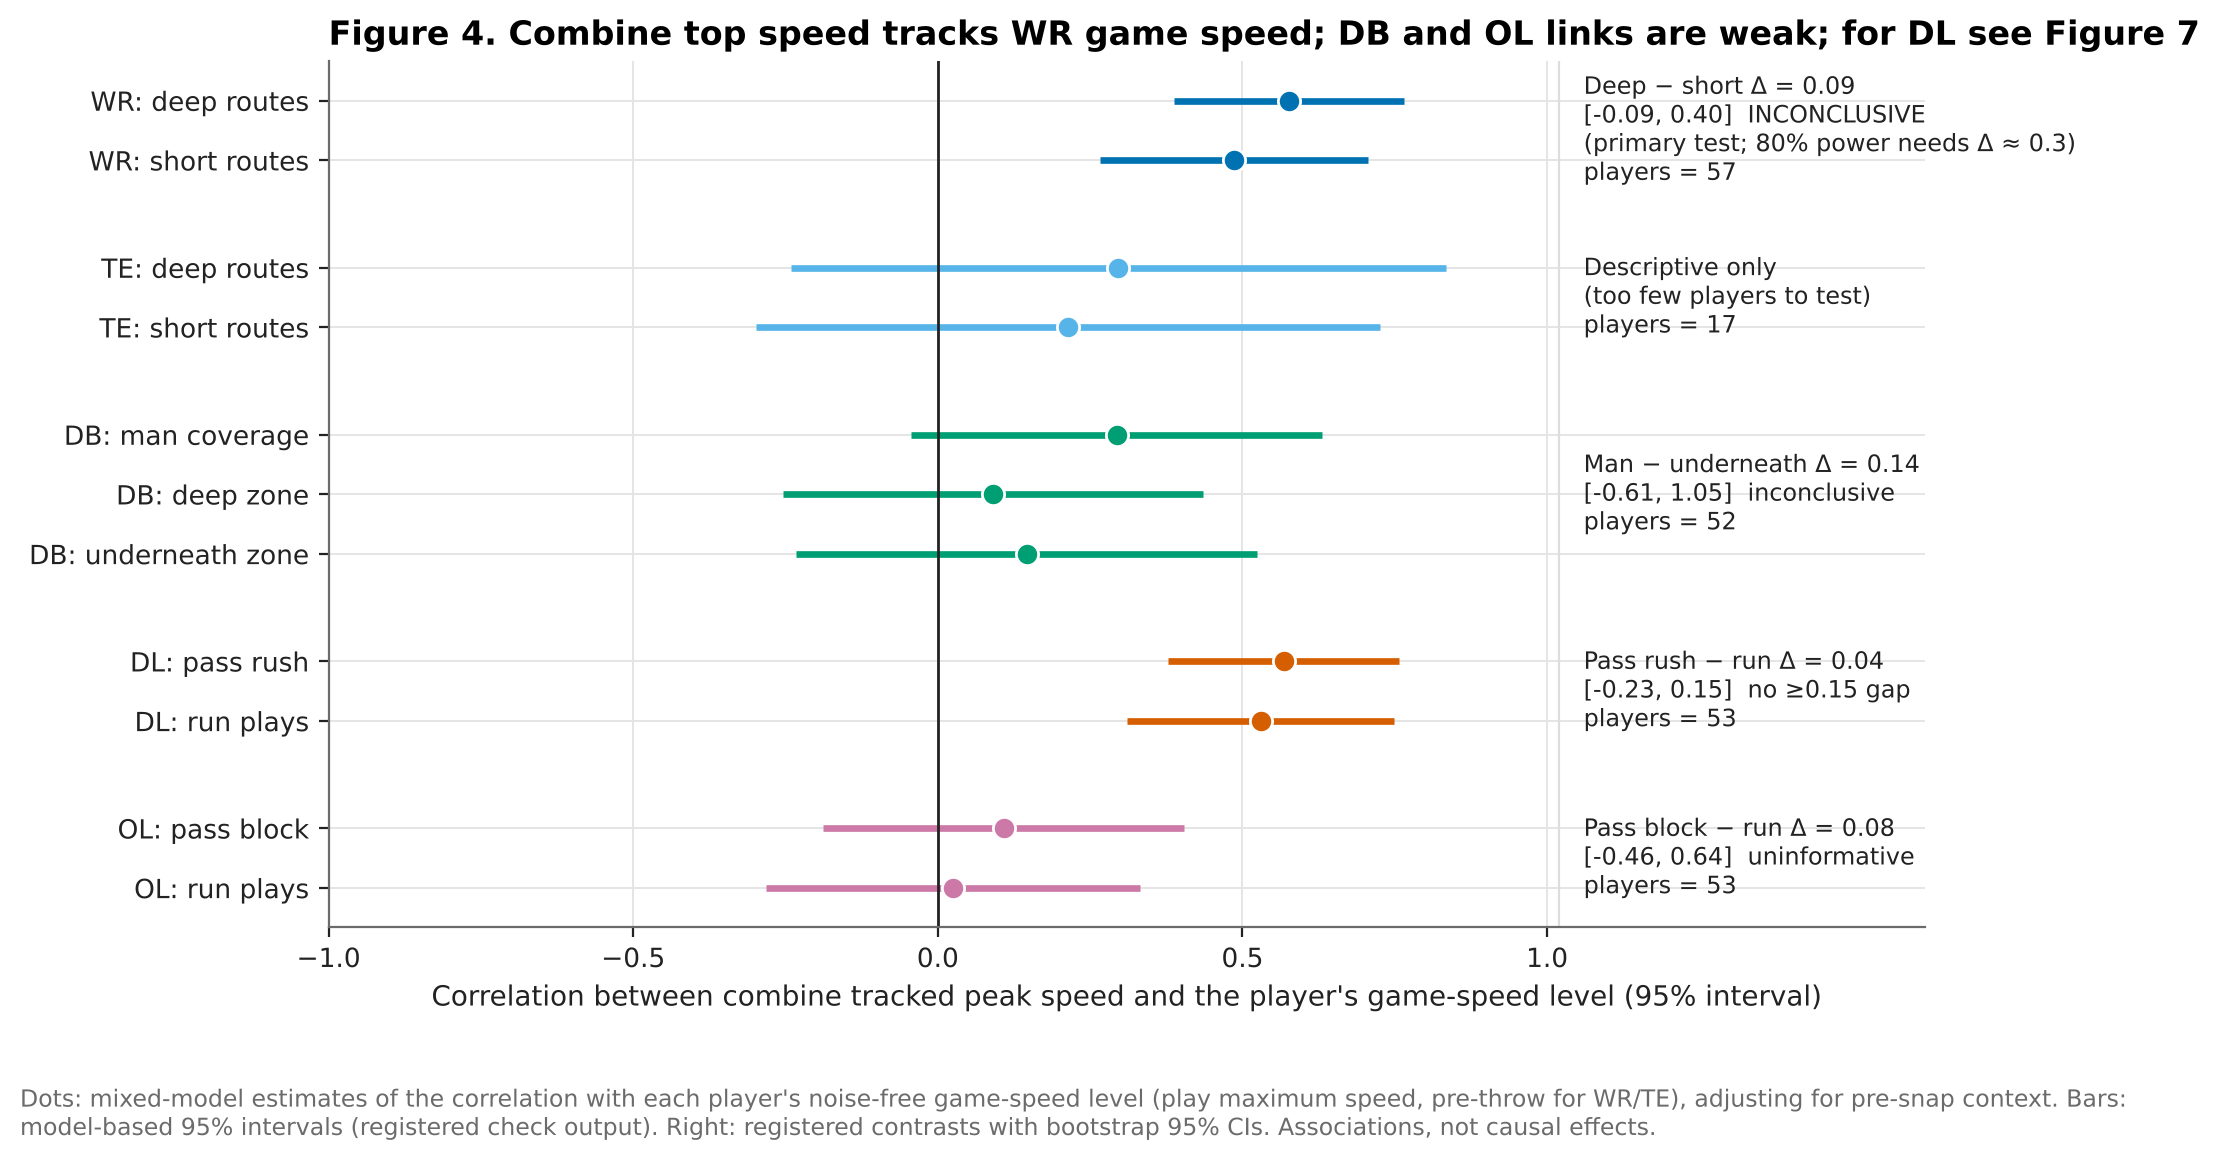
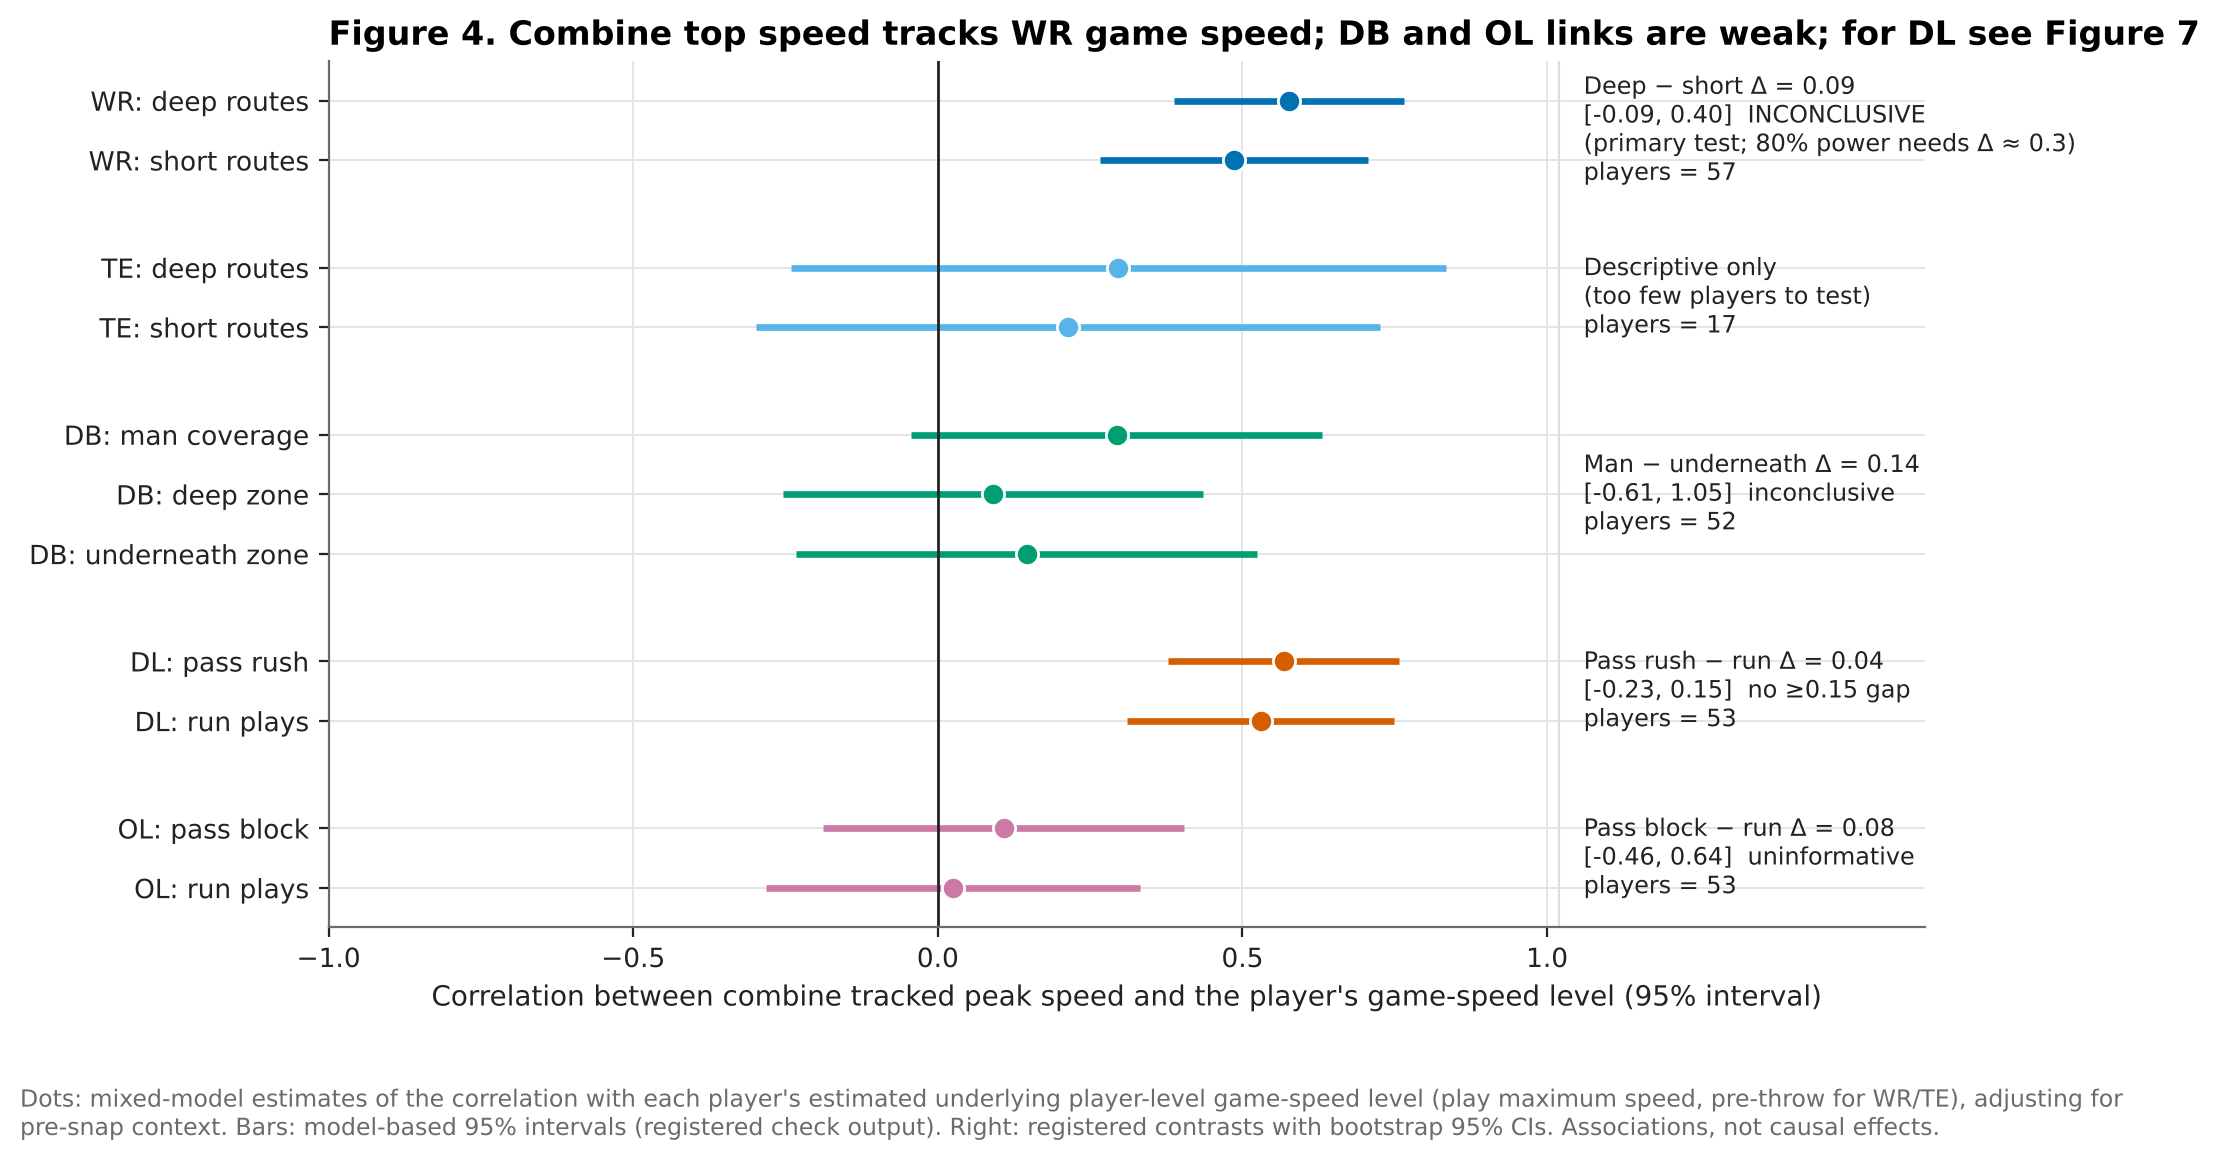
Presentation: replace 'noise-free game-speed level' with 'estimated underlying player-level game-speed level'
Writeup, Kaggle body, Figure 4 caption and notebook 11 narrative; checker now forbids
the old wording in the writeup and figure source. No result or registered file changed.

Claude-Session: https://claude.ai/code/session_0196YY3UW1RMqYoLE2roS9Mg

Changed region(s): [[0.0, 0.9286, 0.9639, 0.9905]]

diff --git a/scripts/check_writeup_numbers.py b/scripts/check_writeup_numbers.py
@@ -108,7 +108,7 @@ checks += [("Title", "# What Combine Tracking Can and Cannot Tell Us About NFL G
 FORBIDDEN = ["not the same thing as the 40", "distinct athletic capacity", "equally predictive", "tracking does not add information",
              "significantly", "Phase 19", "commit", "novel algorithm", "rule out a large", "rules out a gain", "negligible",
              "We make no novelty claim", "full texts not read", "alongside the 40", "H5(b)", "H1-DL(b)", " REG ", "(REG)", "Wald",
-             "ICC(3,1)", "Spearman–Brown", "less spread in short", "negative control"]
+             "ICC(3,1)", "Spearman–Brown", "less spread in short", "negative control", "noise-free"]
 H1SRC = (ROOT / "research_notes/h1_wr_confirmatory_results.md").read_text()
 src_fails += [n for n, t in [("slopes source", "**0.110 yd/s** higher on deep routes and **0.113 yd/s** higher on short routes"),
                              ("Sigma_b source (deep < short)", "[[0.0353, 0.0301], [0.0301, 0.0600]]")] if t not in H1SRC]
@@ -124,7 +124,8 @@ R14 = (ROOT / "research_notes/h1_wr_robustness_results.md").read_text()
 src_fails += [n for n, t in [("R14 source", "| eligible (≥ 100 routes) | 57 | 4.465 ± 0.090 s | 11.12 yd/s | 3.8 | 12 % |"),
                              ("R14 source inel", "| ineligible | 37 | 4.485 ± 0.088 s | 11.10 yd/s | 5.4 | 46 % |")] if t not in R14]
 forb_fails = [f for f in FORBIDDEN if f.lower() in W.lower()]
-fig_checks = [("Fig 3 title in figure", "Figure 3. " + H3), ("Fig 7 title in figure", F7), ("Fig 5 descriptive label", "Short routes\\n(descriptive comparison)"), ("Fig 2 panel B labels shown", "a2.set_yticklabels"), ("Fig 6 short CI in caption", "short-route adjusted reliability")]
+forb_fails += [f"figure source: {f}" for f in ["noise-free game-speed level"] if f in FIGSRC]
+fig_checks = [("Fig 3 title in figure", "Figure 3. " + H3), ("Fig 7 title in figure", F7), ("Fig 4 caption wording", "each player's estimated underlying player-level game-speed level"), ("Fig 5 descriptive label", "Short routes\\n(descriptive comparison)"), ("Fig 2 panel B labels shown", "a2.set_yticklabels"), ("Fig 6 short CI in caption", "short-route adjusted reliability")]
 fails = [(n, e) for n, e in checks if e not in W] + [(n, e) for n, e in fig_checks if e not in FIGSRC] + \
         [(n, "source text missing") for n in src_fails] + [("forbidden phrase", f) for f in forb_fails]
 checks += fig_checks

diff --git a/src/nfl_bdb/visualization/submission_figures.py b/src/nfl_bdb/visualization/submission_figures.py
@@ -174,7 +174,7 @@ def fig4_translation(R: dict):
         ax.text(1.06, sum(yy) / len(yy), txt[p] + f"\nplayers = {npl[p]}", va="center", fontsize=8.6, color=DARK)
     ax.axvline(1.02, color="#dddddd", lw=0.8)
     ax.set_title("Figure 4. Combine top speed tracks WR game speed; DB and OL links are weak; for DL see Figure 7")
-    _note(fig, "Dots: mixed-model estimates of the correlation with each player's noise-free game-speed level (play maximum speed, "
+    _note(fig, "Dots: mixed-model estimates of the correlation with each player's estimated underlying player-level game-speed level (play maximum speed, "
                "pre-throw for WR/TE), adjusting for pre-snap context. Bars: model-based 95% intervals (registered check output). "
                "Right: registered contrasts with bootstrap 95% CIs. Associations, not causal effects.", y=-0.03)
     fig.tight_layout(rect=(0, 0.06, 1, 1))

diff --git a/scripts/build_notebook_11.py b/scripts/build_notebook_11.py
@@ -281,7 +281,7 @@ where:
 - $b_{ic}$ is a correlated player effect;
 - $u$ is a team-season effect.
 
-The estimand is the correlation between Combine speed and the player's **noise-free** game-speed level,
+The estimand is the correlation between Combine speed and the player's **estimated underlying player-level** game-speed level,
 
 $$\rho_c = \frac{\beta_c}{\sqrt{\beta_c^2 + \Sigma_{b,cc}}}, \qquad \Delta = \rho_h - \rho_l .$$
 

diff --git a/paper/final_writeup.md b/paper/final_writeup.md
@@ -26,7 +26,7 @@ We keep four things separate (Figure 1): **capacity** (tracked 40 peak speed, yd
 | TE (descriptive only) | 17 | 4,170 |
 
 - **Safeguards.** The plan was pre-registered and the code frozen before the single Combine-to-game join; the pipeline was first tested on simulated data.
-- **Model.** A mixed model estimates each player's *noise-free* game-speed level in each context, adjusting for route, coverage, down, distance, formation, time to throw, season, NFL year and team-season. We report its correlation with Combine peak speed, ρ (from −1 to 1; 0 means no linear relationship), with intervals from resampling players 2,000 times.
+- **Model.** A mixed model estimates each player's estimated underlying player-level game-speed level in each context, adjusting for route, coverage, down, distance, formation, time to throw, season, NFL year and team-season. We report its correlation with Combine peak speed, ρ (from −1 to 1; 0 means no linear relationship), with intervals from resampling players 2,000 times.
 - **Separation source.** Separation is the competition-supplied Next Gen Stats field `separation_at_pass_forward`. We did **not** rebuild nearest-defender distance; the game files track only cohort players. The field exists for every route on a thrown pass, targeted or not, and is missing on sacks and scrambles. Where a tracked cohort defender was nearest, its distance matched. That is a consistency check on a subset, not proof of every defender assignment.
 
 ## 3. Which Combine tracking measurements are reliable?

diff --git a/paper/kaggle_writeup/writeup_body.md b/paper/kaggle_writeup/writeup_body.md
@@ -24,7 +24,7 @@ We keep four things separate (Figure 1): **capacity** (tracked 40 peak speed, yd
 | TE (descriptive only) | 17 | 4,170 |
 
 - **Safeguards.** The plan was pre-registered and the code frozen before the single Combine-to-game join; the pipeline was first tested on simulated data.
-- **Model.** A mixed model estimates each player's *noise-free* game-speed level in each context, adjusting for route, coverage, down, distance, formation, time to throw, season, NFL year and team-season. We report its correlation with Combine peak speed, ρ (from −1 to 1; 0 means no linear relationship), with intervals from resampling players 2,000 times.
+- **Model.** A mixed model estimates each player's estimated underlying player-level game-speed level in each context, adjusting for route, coverage, down, distance, formation, time to throw, season, NFL year and team-season. We report its correlation with Combine peak speed, ρ (from −1 to 1; 0 means no linear relationship), with intervals from resampling players 2,000 times.
 - **Separation source.** Separation is the competition-supplied Next Gen Stats field `separation_at_pass_forward`. We did **not** rebuild nearest-defender distance; the game files track only cohort players. The field exists for every route on a thrown pass, targeted or not, and is missing on sacks and scrambles. Where a tracked cohort defender was nearest, its distance matched. That is a consistency check on a subset, not proof of every defender assignment.
 
 ## 3. Which Combine tracking measurements are reliable?
